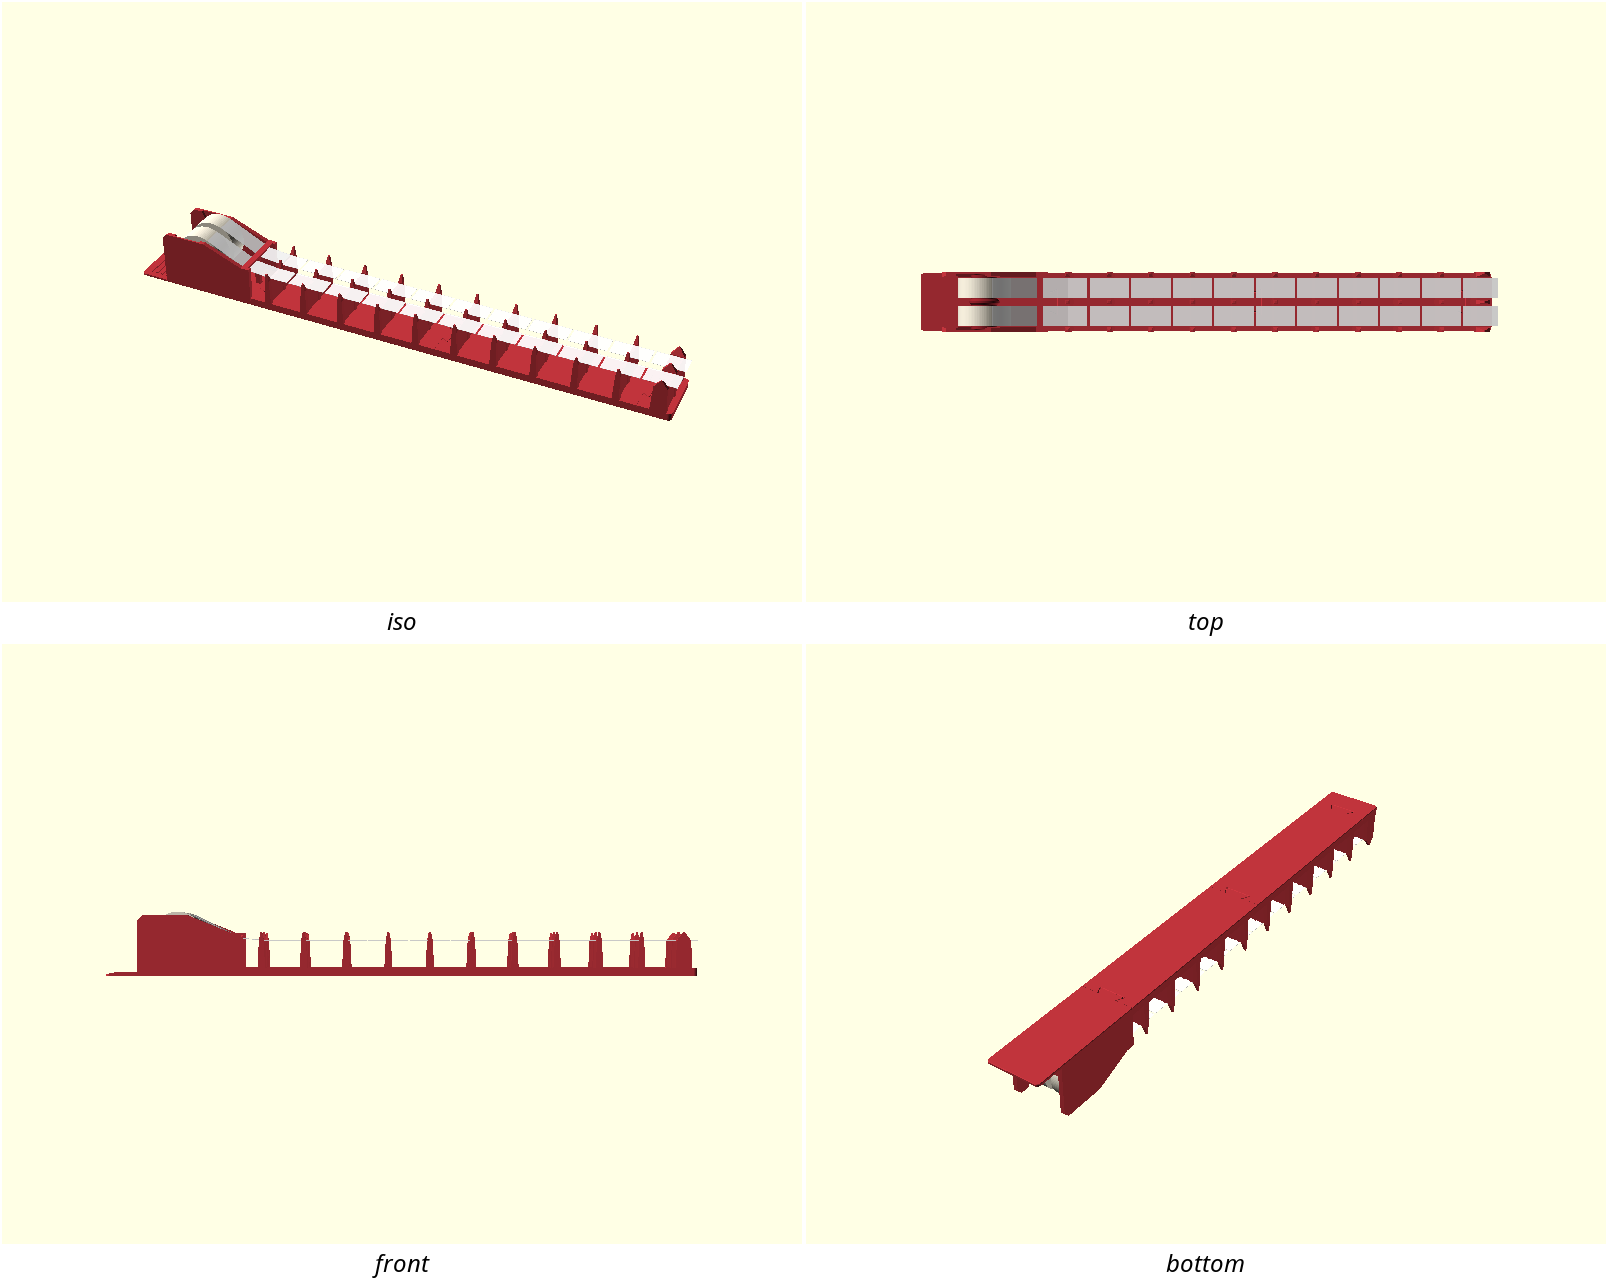
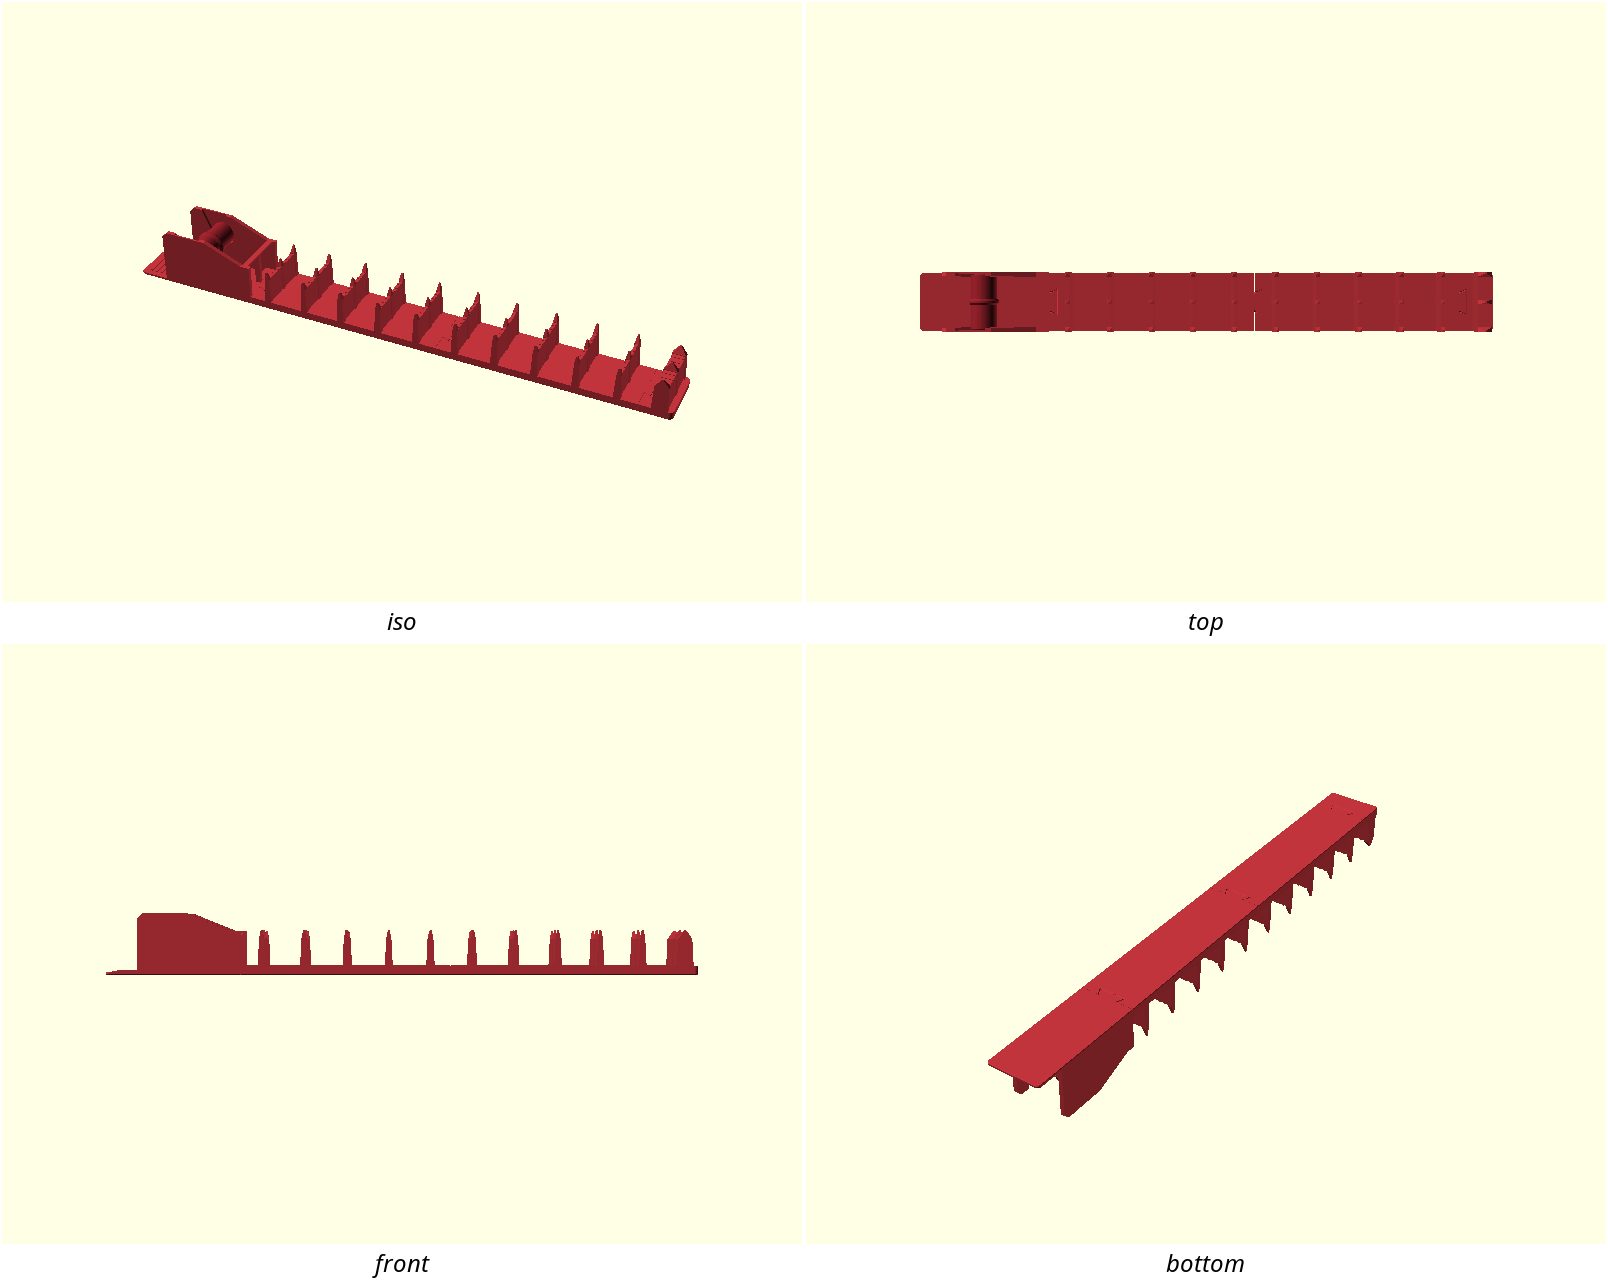
tape-strip-rack: show_payload defaults to false
The owner asked for a plain switch that defaults to off. The rolls and
the tape are drawn only when show_payload is true, so the default render,
the site's workbench and its download hold the five printed bodies, and
turning the switch on in the workbench shows the tape again.

This replaces the $preview gate from the previous commit: it kept the
previews as they were but left the workbench's switch doing nothing,
because the workbench only ever does full renders.

The preview shots that show rolls or tape now ask for them in
cameras.conf and are unchanged (0-1 pixels differ). The contact sheet is
the default render, so it now shows printed parts only; its caption and
description say so. README gains a show_payload row. No gated part
changed: gate.sh --slice is 5 x 100/100, eleven fit proofs, 4-object
plate; the product shot is byte-identical.

Claude-Session: https://claude.ai/code/session_01F1rwVymRWjLF8kogNxgoDx

Changed region(s): [[0.5908, 0.2181, 0.9328, 0.2804], [0.0933, 0.1558, 0.4353, 0.3115]]

diff --git a/designs/tape-strip-rack/PM.md b/designs/tape-strip-rack/PM.md
@@ -45,15 +45,15 @@ A desk rack that turns one pull of tape into a row of equal strips, for someone 
 | Shot | What it sells | View | Look | Pose (`-D`) |
 |---|---|---|---|---|
 | product-hero | the whole rack as an object you would want on the table | 3/4 from the roll end | red, satin | `show_payload=false` |
-| hero | what one pull leaves behind: two tapes, eighteen strips | 3/4 | preview colours | default |
-| cradle | rolls, spindle and the gate the tapes pass under | close 3/4 | preview colours | default |
-| pad | the palm pad the steadying hand presses | from behind and above the rolls | preview colours | default |
-| section | the tape path: roll, under the gate, onto the fins | side, orthographic | preview colours | `part="cutaway"` |
+| hero | what one pull leaves behind: two tapes, eighteen strips | 3/4 | preview colours | `show_payload=true` |
+| cradle | rolls, spindle and the gate the tapes pass under | close 3/4 | preview colours | `show_payload=true` |
+| pad | the palm pad the steadying hand presses | from behind and above the rolls | preview colours | `show_payload=true` |
+| section | the tape path: roll, under the gate, onto the fins | side, orthographic | preview colours | `part="cutaway" show_payload=true` |
 | fins | ribbed lands and guide posts | close 3/4 | preview colours | `show_payload=false` |
 | joint | the drafted dovetail key, under a rack lifted off it | low, from the side | preview colours | `explode=16 show_payload=false` |
 | nested | two rack segments stored fin-into-gap, in two tones | 3/4 | preview colours | `part="nested"` |
 | nested-side | the same pair, read as two combs | side, orthographic | preview colours | `part="nested"` |
-| section-pull | the tape just pulled, clear of the fin tops, and the drafted key in its socket | side, orthographic, close | preview colours | `part="cutaway" cut_at="key" tape_pose="pulled"` |
+| section-pull | the tape just pulled, clear of the fin tops, and the drafted key in its socket | side, orthographic, close | preview colours | `part="cutaway" cut_at="key" tape_pose="pulled" show_payload=true` |
 | coupon | what to print first | 3/4 | plain | coupon wrapper |
 | contact-sheet | the assembled four-view; three of the four parts as they print | standard | preview colours | default |
 
@@ -98,4 +98,4 @@ Rows are in rank order. The B numbers are names, kept from the first ranking so 
 | 2026-11-22 | Walls start at a depth of their own; the spindle is one lofted polyhedron | CI's Manifold backend scored the cradle 67 and the spindle 59 on meshes the local gate passed. Neither solid changed shape |
 | 2026-11-22 | Presser (B3) up to second, load mark (B7) up to fifth | The customer review walked one session: twenty presses a pull against ten snips; and a backwards roll fails silently, steps later |
 | 2026-11-22 | Seam at the rear and a whisker-trim step on the page; two preview shots added (`section-pull`, `nested-side`), `nested` drawn in two tones | Printability review: an aligned seam in the dovetail reads as a tight joint; the gate's underside is a working surface; the nested shot read as one part and no shot showed the tape before pressing |
-| 2026-11-22 | Rolls and tape are drawn in previews only | The owner found them in the STL the site's workbench exports. An export holds printed parts and nothing else |
+| 2026-11-22 | Rolls and tape are off by default (`show_payload = false`) | The owner found them in the STL the site's workbench exports, and asked for a switch that defaults to off. The default render holds printed parts only; the shots that show the tape ask for it |

diff --git a/designs/tape-strip-rack/NOTES.md b/designs/tape-strip-rack/NOTES.md
@@ -182,7 +182,7 @@ Strip count, traced by review on the assembly: cuts fall at x = 40, 80 … 400. 
   - *Why the emulation missed the cradle.* It fed Manifold single-precision meshes, and Manifold takes its merge tolerance from the precision of its input, so it merged the two edges before the union; and it did not round its output the way the STL writer does. Fed double-precision meshes, and with the six-digit rounding, it reproduces the failure on the old geometry — on the same edge, the nose face at z = 1.2, where CI reported it — and is clean on the new, for every part in both union orders. It cannot see the spindle's failure at all: a part that is one primitive never passes through a boolean.
   - The rule taken from it: a coordinate that comes from a 2D profile and one that comes from a 3D primitive must never be meant to coincide on a surface, and a part that is a single primitive must already be a clean mesh.
   - Confirmed by CI on commit 2b96a24: all five gated meshes 100/100 on the nightly's Manifold backend.
-- **Rolls and tape in the exported STL.** The default render is the assembly with its payload drawn, and a full render exported the rolls and the tape as geometry: 22 of the 27 bodies in the file the site's workbench shows and offers for download. Caught by the owner, on the workbench. The payload is now drawn only when `$preview` is true, so previews keep it and no export can contain it: the default export is five bodies, the printed parts as assembled. It is still a picture of the assembly, not the file to slice; that is the plate.
+- **Rolls and tape in the exported STL.** The default render was the assembly with its payload drawn, and a full render exported the rolls and the tape as geometry: 22 of the 27 bodies in the file the site's workbench shows and offers for download. Caught by the owner, on the workbench. `show_payload` now defaults to false, as the owner asked: the default render, the workbench and its download hold the five printed bodies, and the preview shots that show the tape ask for it in `cameras.conf`. A first fix drew the payload only when `$preview` was true; it kept the previews as they were but left the workbench's `show_payload` switch doing nothing, because the workbench only ever does full renders. The default export is still a picture of the assembly, not the file to slice; that is the plate.
 - **The carry claim.** "Pick it up by the cradle" was written from the straight-lift proof. Two reviewers independently found the pivot path a hanging rack can take. The claim is now what D3 says.
 - **A flat end-cap ledge** on the lightest, lift-free part (D6), **8 mm of threading room** (D9), and **a coupon narrower than the joint it stands in for** (its socket arms were 4 mm against 14 mm on a rack) — all caught by review, all fixed.
 

diff --git a/designs/tape-strip-rack/README.md b/designs/tape-strip-rack/README.md
@@ -20,7 +20,7 @@ The plate holds one rack, which makes a complete five-fin rack: four strips a la
 
 Assembled with two racks it takes 561 × 57 mm of table and stands 58 mm tall; with one rack it is 361 mm long.
 
-![The assembled four-view: cradle, racks and end cap as they print; the spindle prints on end, and the rolls and tape are not printed](previews/contact-sheet.png)
+![The assembled four-view: cradle, racks and end cap as they print; the spindle prints on end](previews/contact-sheet.png)
 
 ## Print settings
 
@@ -64,6 +64,7 @@ Measure the core of your own tape roll as well. `core_id` assumes 25.4 mm.
 | `land_ribs` | 3 | ribs per lane on each fin top. Fewer makes a strip easier to peel; 0 makes the top flat, for tape that will not stay put |
 | `fin_h` | 26 mm | height of the tape above the base: room for scissors and fingers |
 | `heel_l` | 30 mm | length of the palm pad behind the rolls; 0 removes it |
+| `show_payload` | false | draws the rolls and the tape on the assembly, to see how the tape runs. Leave it off for any file you export: they are not parts |
 | `lanes` | 2 | rolls side by side. One lane needs a narrower joint (`joint_neck=6`, `joint_tip=13`); the render stops and says so |
 
 All parameters are at the top of `tape-strip-rack.scad`, grouped in Customizer sections; override on the command line, for example `-D strip_len=50 -D fins_per_rack=4`. The fit proofs and the cutaway are selected with `part`.

diff --git a/designs/tape-strip-rack/previews/CAMERAS.md b/designs/tape-strip-rack/previews/CAMERAS.md
@@ -6,11 +6,12 @@ frozen once reviewed: a new region to show gets a NEW line in
 review rounds must align).
 
 - **contact-sheet** — the 2×2 iso / top / front / bottom-iso of the default
-  render: the assembled rack with rolls and cut tape. Cradle, racks and end
+  render: the assembled rack, printed parts only. Cradle, racks and end
   cap are in their print orientation here (the spindle prints on end). The
   bottom-iso is the bed-contact check: flat bases, the dovetail keys and
   sockets, nothing hanging.
-- **hero** — the whole assembly in 3/4 view after one pull and its cuts: the
+- **hero** — the whole assembly in 3/4 view after one pull and its cuts
+  (`show_payload=true`, as on every shot below that shows rolls or tape): the
   two tape ends parked on the fin nearest the rolls, one strip per lane on
   every later fin, the tails on the end cap's ledge.
 - **cradle** — close on the roll end from the front: two rolls on the
